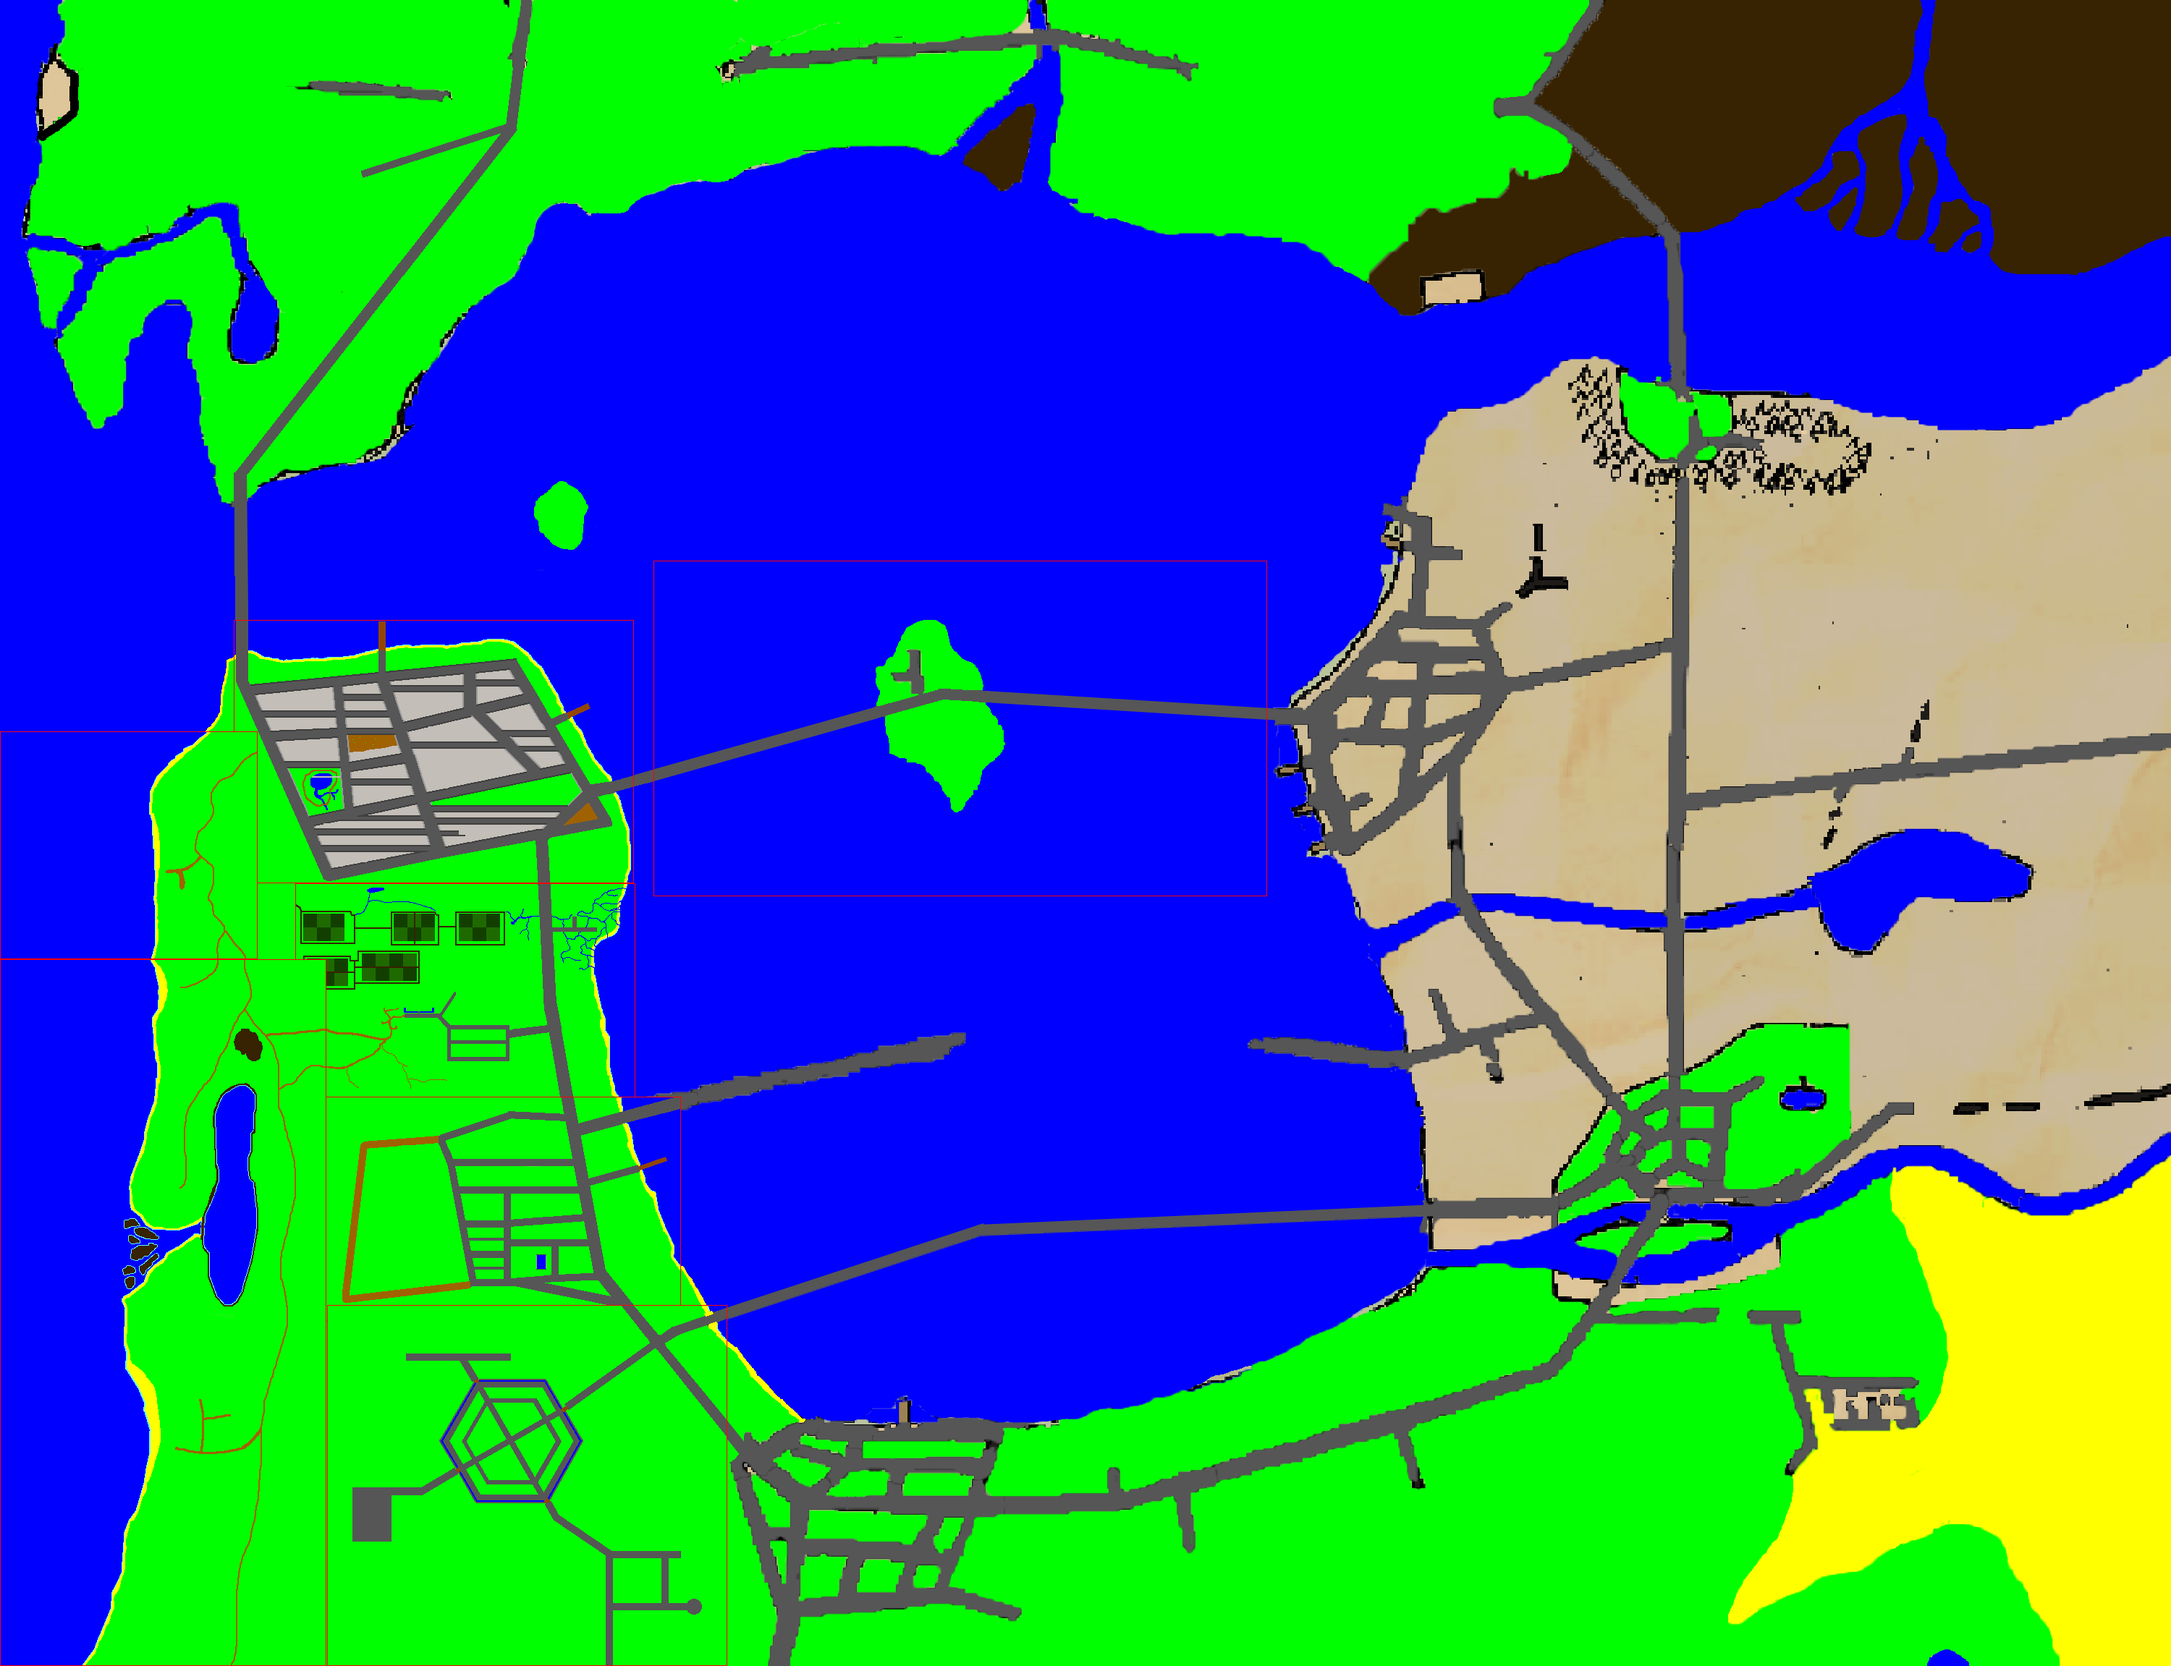
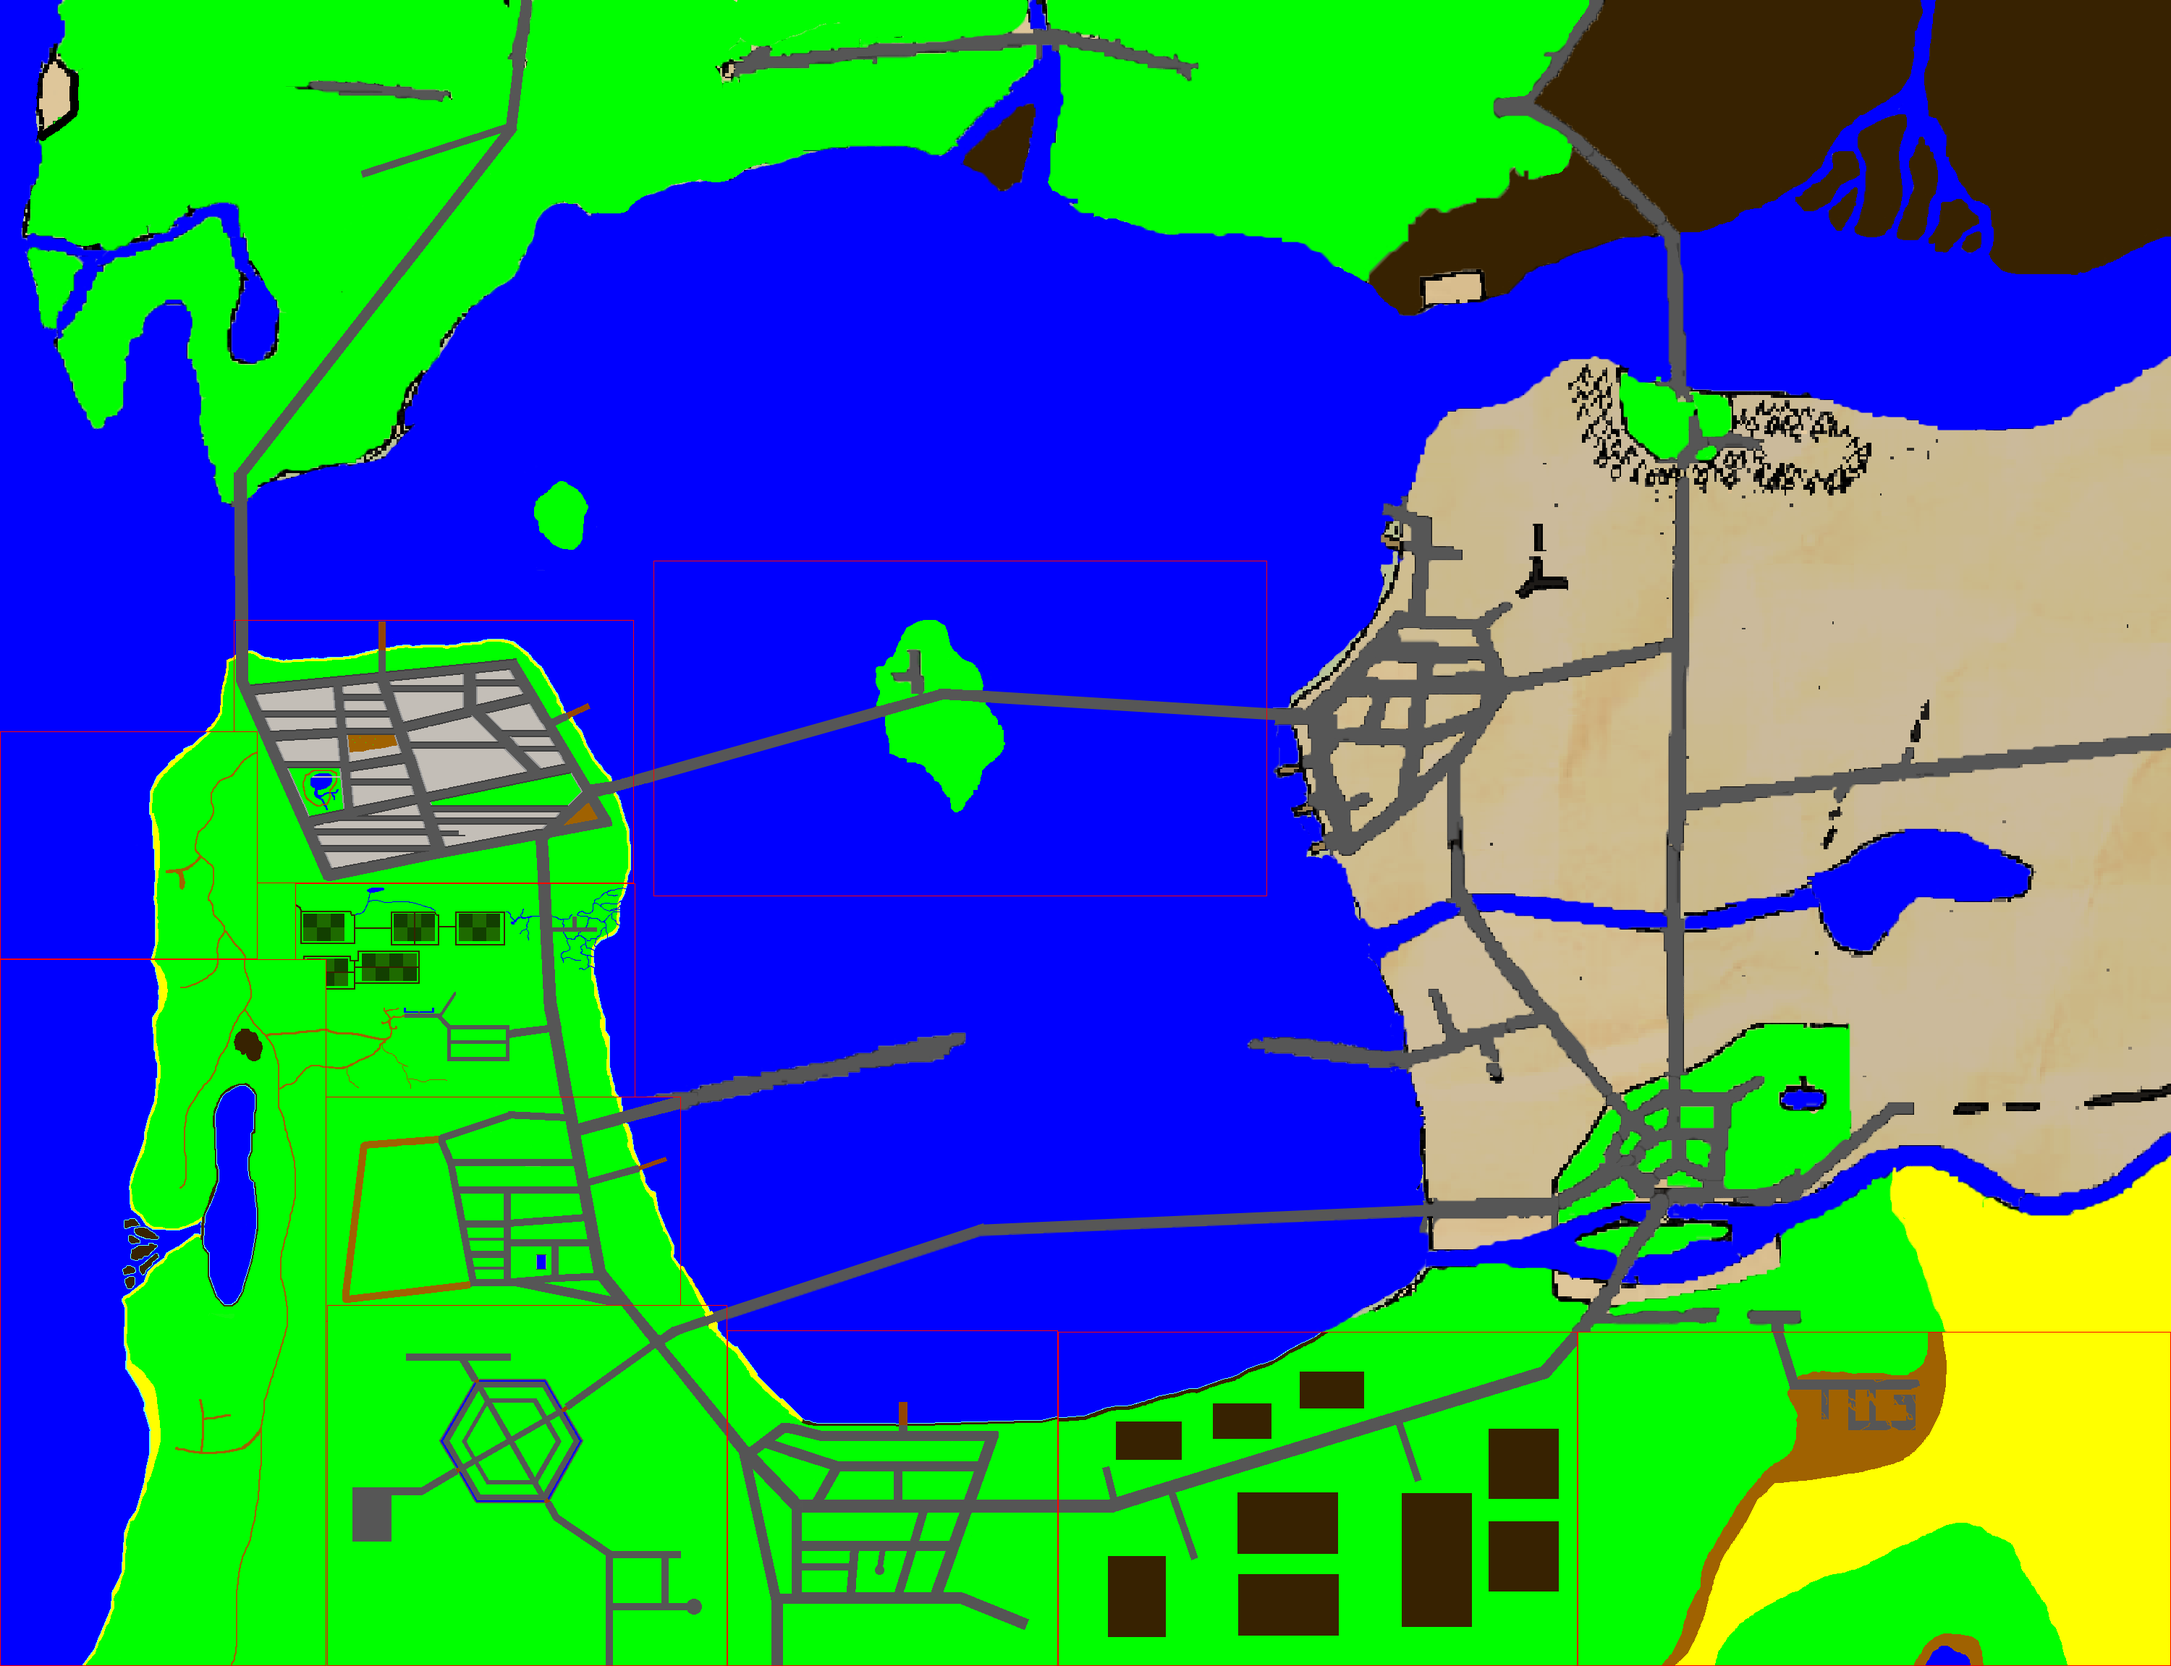
South Bay Done!
Jeff you need to place:
Edge of the Woods Top
San Juan
The Island
Orchard Valley
Southern Desert

Two Bridges just needs to have it’s own class, no placement

diff --git a/src/ca/javajesus/level/tile/Tile.java b/src/ca/javajesus/level/tile/Tile.java
@@ -28,7 +28,7 @@ public abstract class Tile {
 	public static final Tile WATER = new AnimatedTile(3, new int[][] {
 			{ 0, 14 }, { 1, 14 }, { 2, 14 }, { 3, 14 }, { 2, 14 }, { 1, 14 } },
 			new int[] { 0xFF0000BB, 0xFF2222EE, 0xFF000000 }, 0xFF0000FF, 800);
-	public static final Tile SAND = new BaseTile(4, 0, 1, new int[] {
+	public static final Tile SAND = new BaseTile(4, 9, 2, new int[] {
 			0xFFEEBB00, 0xFFFFFF00, 0xFF000000 }, 0xFFFFFF00);
 	public static final Tile ROAD1 = new BaseTile(6, 0, 2, new int[] {
 			0xFF222222, 0xFF353535, 0xFF000000 }, 0xFF565656);
@@ -45,7 +45,7 @@ public abstract class Tile {
 			0xFF0C6600, 0xFF5D3102, 0xFF000000 }, 0xFF1E6A00);
 	public static final Tile FARMPLOT2 = new BaseTile(13, 3, 1, new int[] {
 			0xFF0C6600, 0xFF5D3102, 0xFF000000 }, 0xFF123F00);
-	public static final Tile DIRTROAD = new BaseTile(14, 0, 2, new int[] {
+	public static final Tile DIRTROAD = new BaseTile(14, 10, 2, new int[] {
 			0xFF935409, 0xFF000000, 0xFF000000 }, 0xFFA06201);
 	public static final Tile BRICKROAD = new BaseTile(15, 1, 0, new int[] {
 			0xFFD40000, 0xFFB40000, 0xFF000000 }, 0xFFA50000);

diff --git a/src/ca/javajesus/level/Level.java b/src/ca/javajesus/level/Level.java
@@ -47,7 +47,7 @@ public abstract class Level implements Serializable {
 
 	protected int[] tileColours;
 
-	public static Level level1 = new TechTopia();
+	public static Level level1 = new BautistasDomain();
 	public static Level lordHillsboroughsDomain = new LordHillsboroughsDomain();
 	public static Level roadlevel = new RoadLevel();
 	public static Level random = new RandomLevel(level1.width, level1.height);
